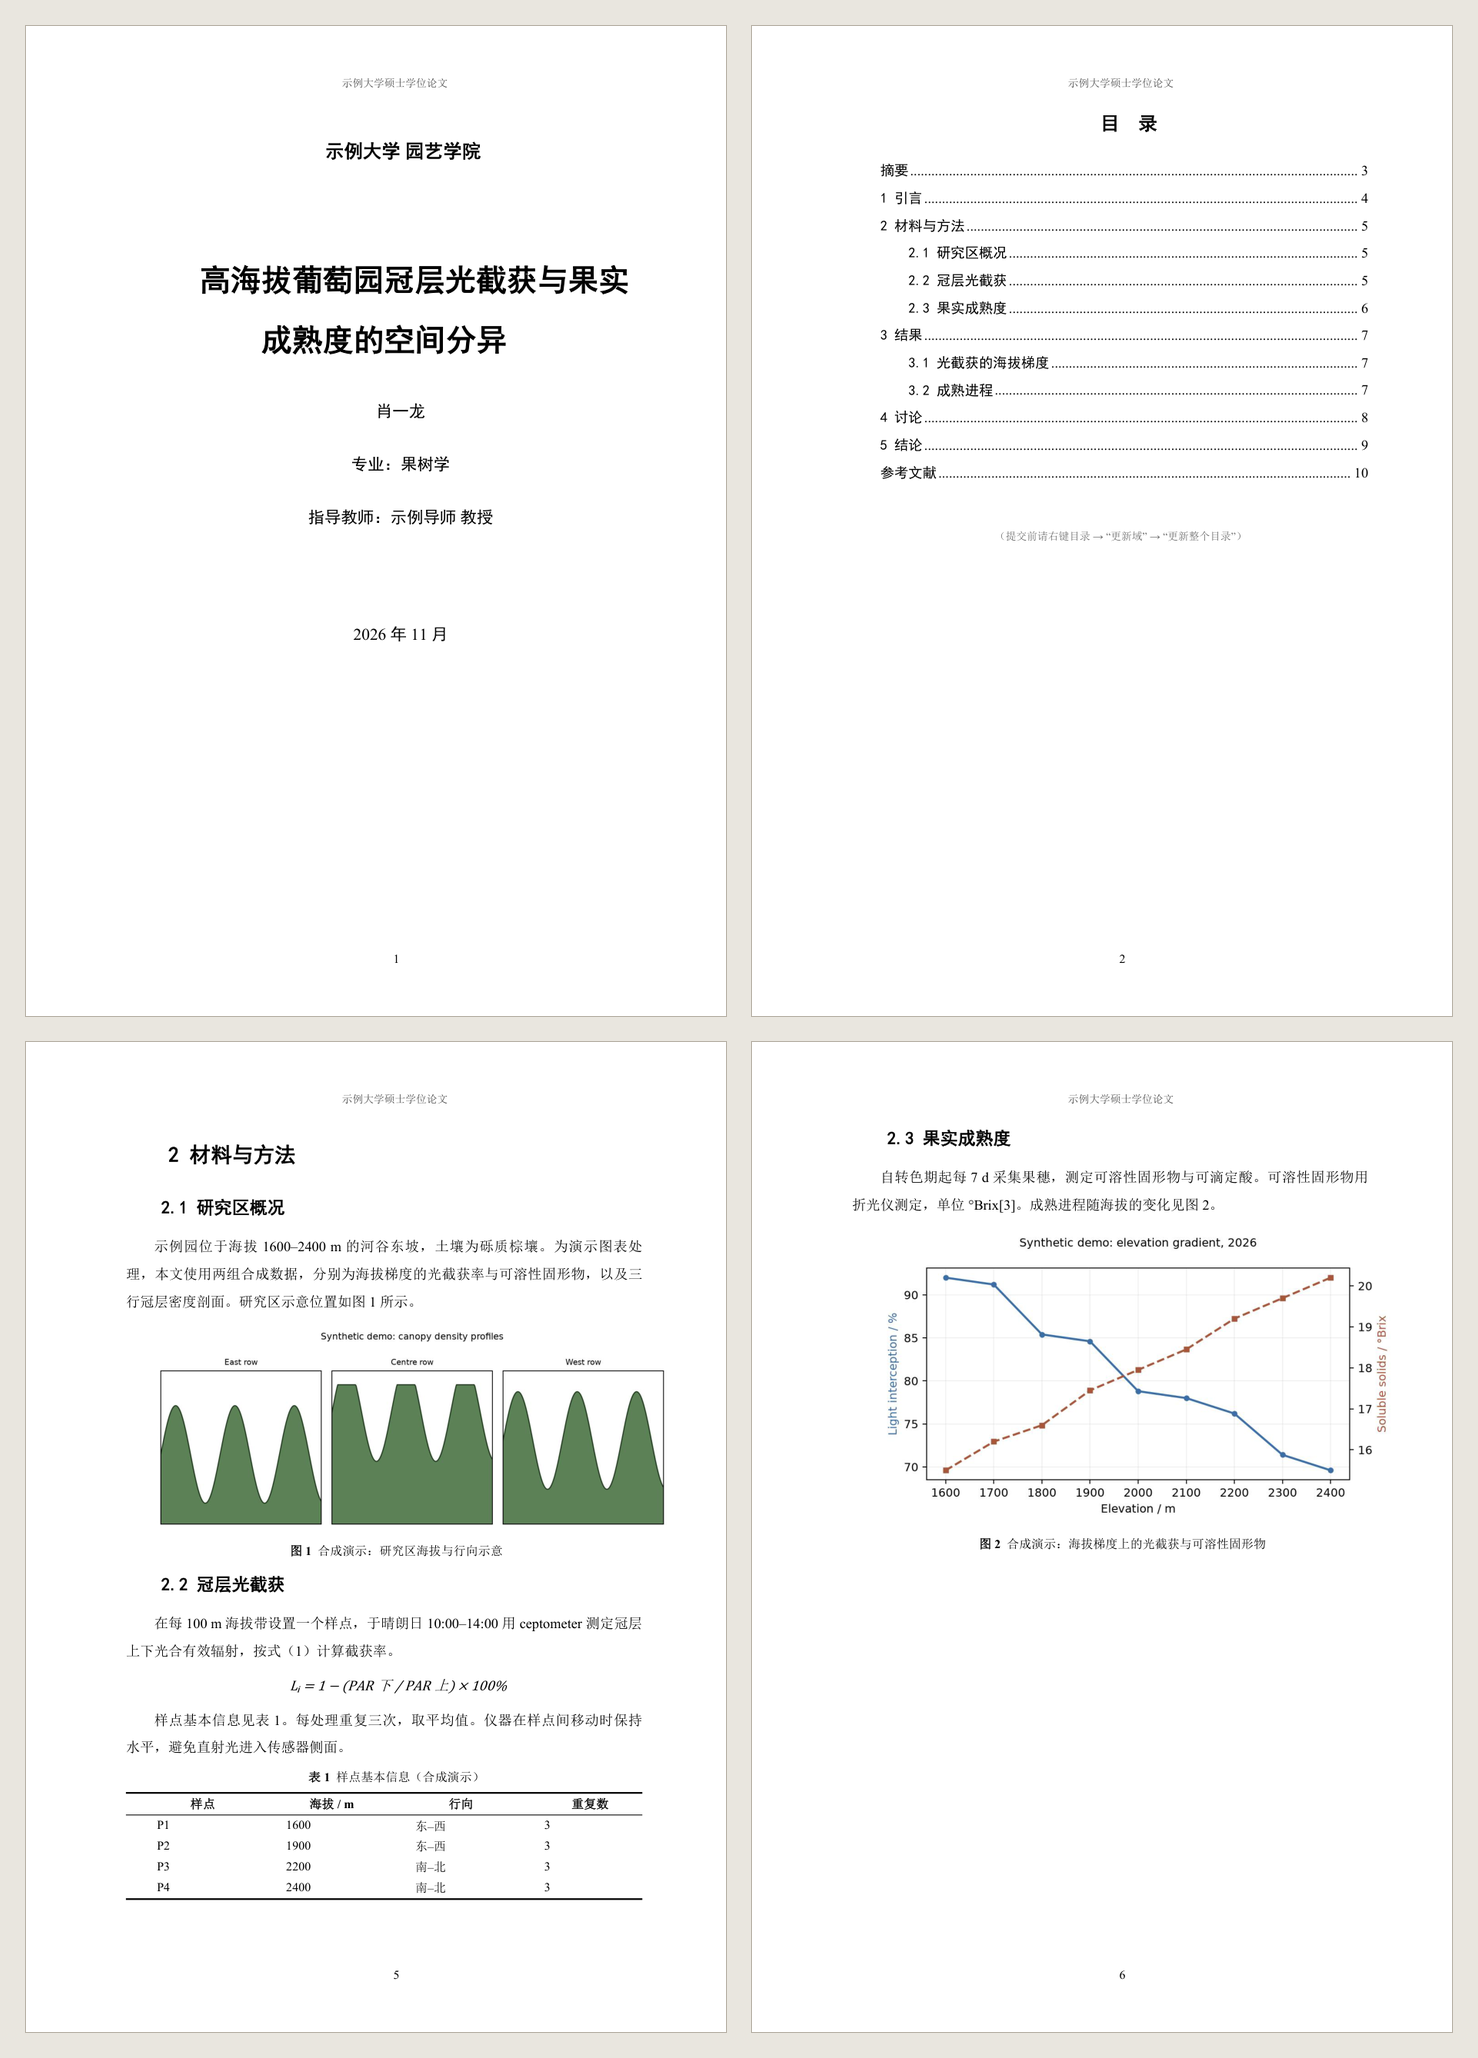
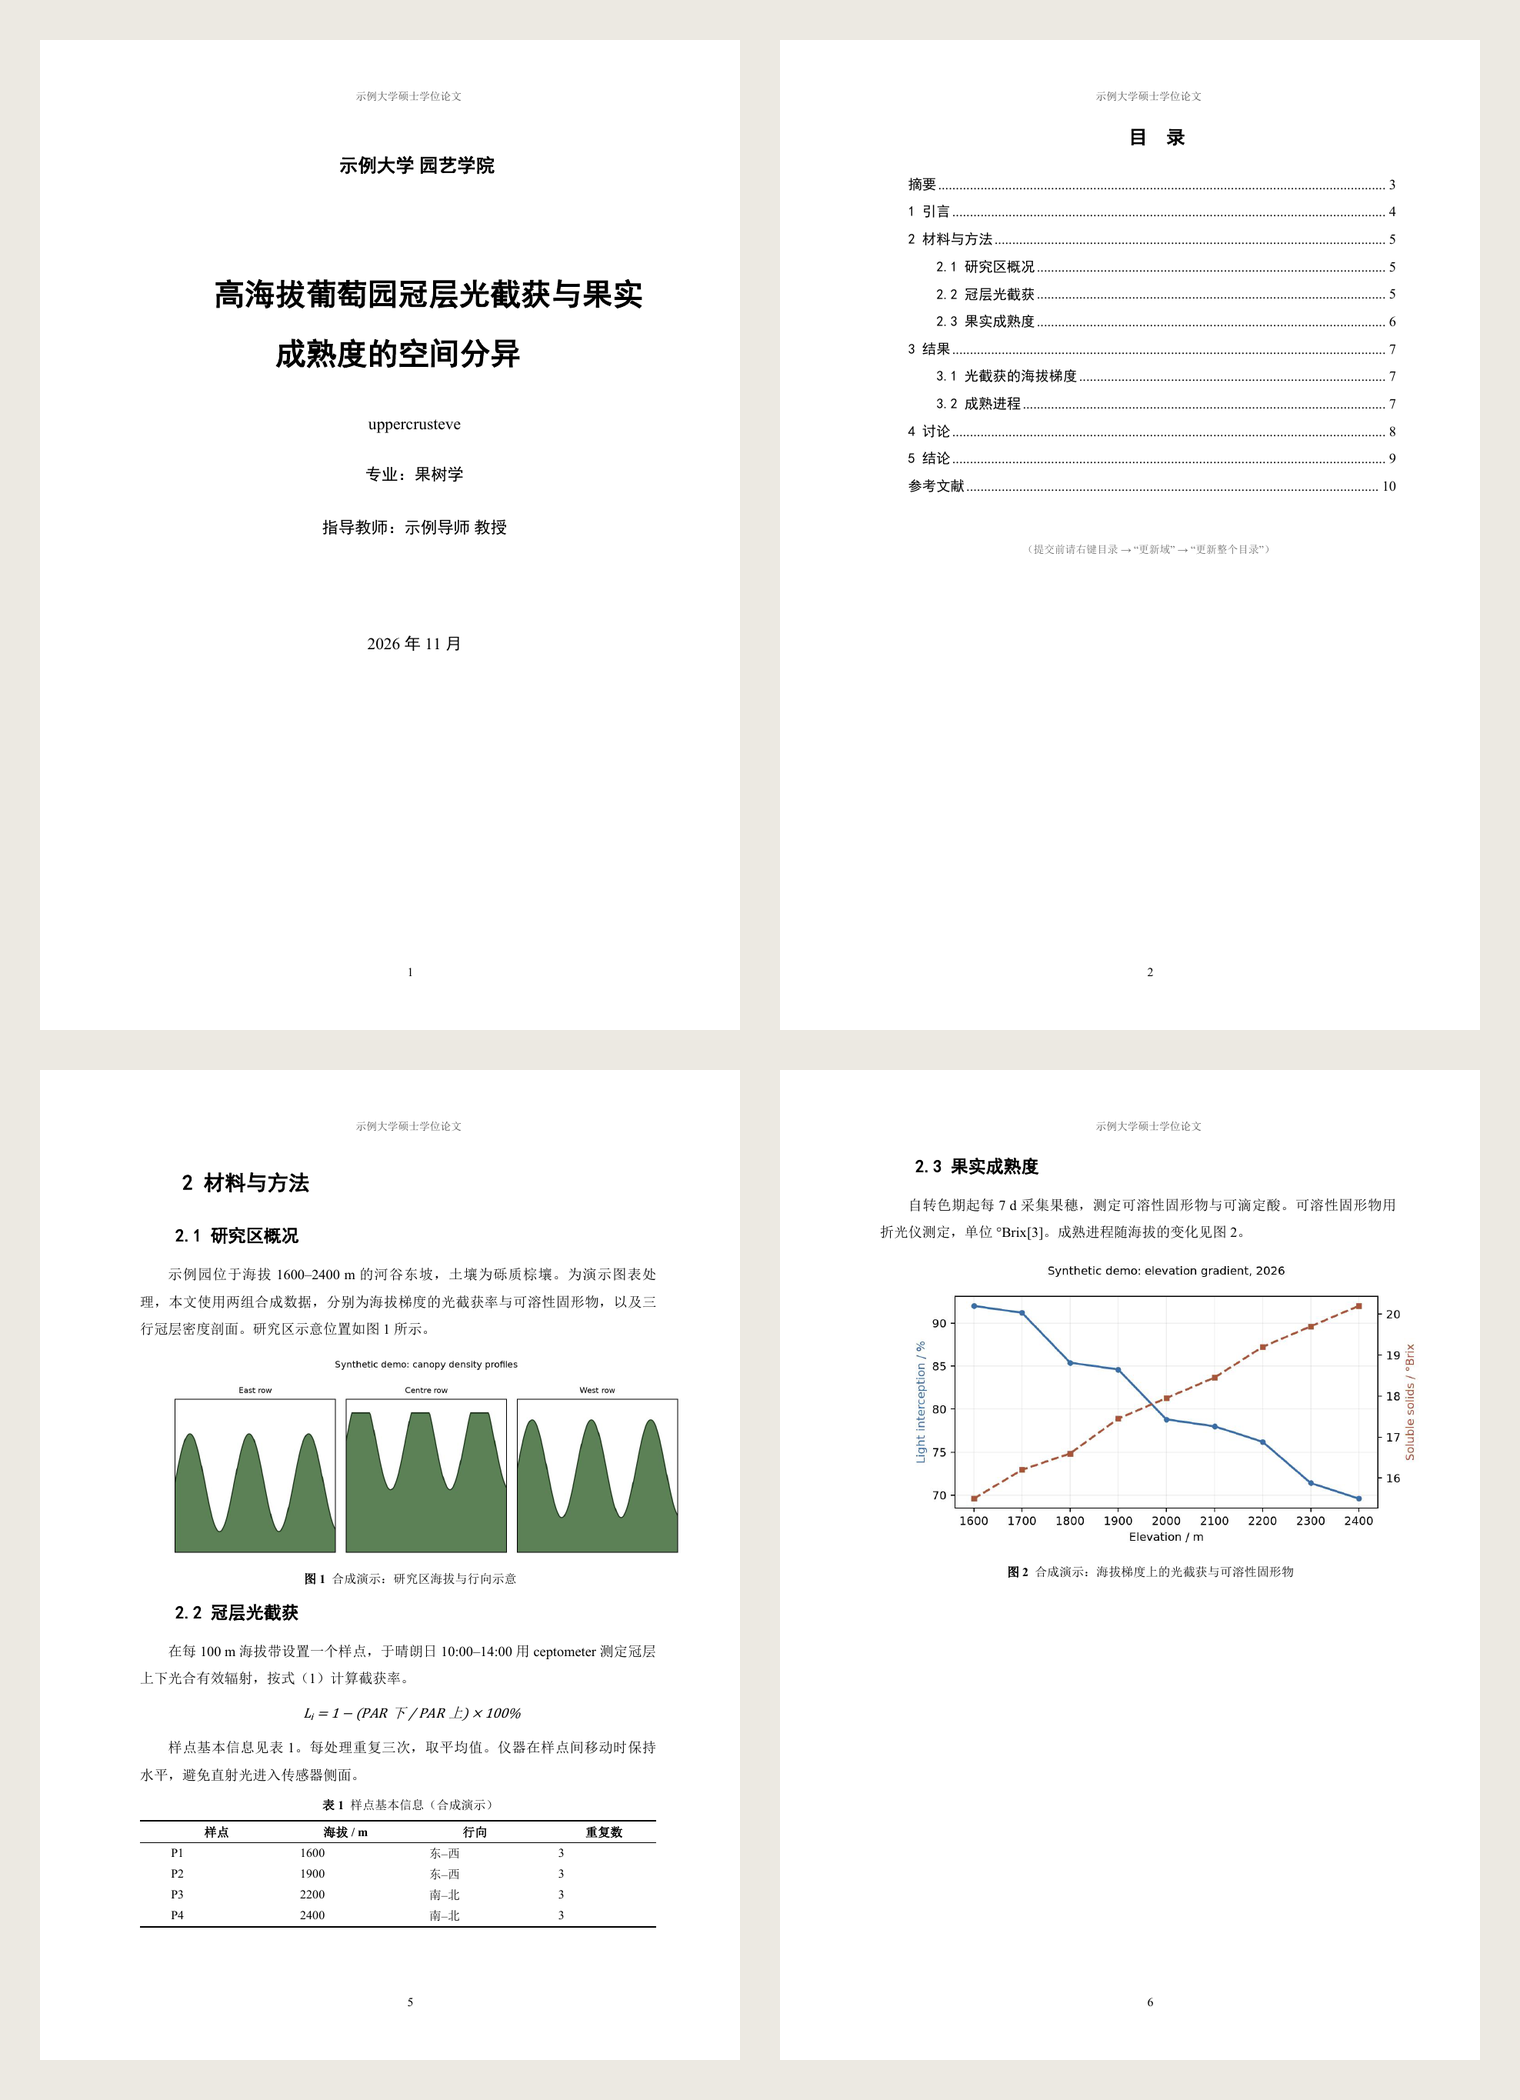
fix: anonymize the sample author and report non-UTF-8 sources readably
The sample thesis cover still carried the real name. Build and check now catch a decode error and print a hint instead of a traceback; the preview screenshot is regenerated.

diff --git a/src/thesis_forge/cli.py b/src/thesis_forge/cli.py
@@ -168,6 +168,9 @@ def main(argv: list[str] | None = None) -> int:
     except (FrontMatterError, TemplateError) as exc:
         print(f"错误: {exc}", file=sys.stderr)
         return 1
+    except UnicodeDecodeError:
+        print("错误: 输入文件不是 UTF-8 编码，请另存为 UTF-8 后重试", file=sys.stderr)
+        return 1
     except OSError as exc:
         print(f"错误: {exc}", file=sys.stderr)
         return 1

diff --git a/examples/sample_thesis.md b/examples/sample_thesis.md
@@ -1,6 +1,6 @@
 ---
 title: "高海拔葡萄园冠层光截获与果实成熟度的空间分异"
-author: "肖一龙"
+author: "uppercrusteve"
 institution: "示例大学 园艺学院"
 major: "果树学"
 advisor: "示例导师 教授"

diff --git a/CHANGELOG.md b/CHANGELOG.md
@@ -1,5 +1,12 @@
 # Changelog
 
+## [Unreleased]
+
+### Fixed
+
+- Non-UTF-8 sources and templates exit with a readable hint instead of a
+  traceback.
+
 ## 0.1.0 — 2026-11-17
 
 Initial release.
